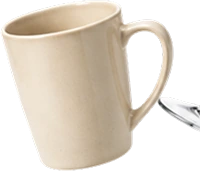
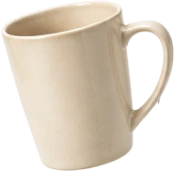
Corrige recortes, reubica etiquetas, agranda píldoras y suma hover a la escena flotante (#15)
* Reemplaza la foto de materiales por una escena flotante interactiva por capas

Extrae los 19 objetos de la composición de referencia en PNGs
individuales con fondo transparente y los anima de forma independiente
(traslación, rotación y escala sutiles, con duración y delay propios
por objeto). Las etiquetas VIDRIO, CERÁMICA, ALUMINIO, PLÁSTICO y
Y MÁS... son elementos HTML fijos (no flotan) con z-index intercalado
respecto a los objetos, de forma que los que representan su categoría
(taza de cerámica, botella de aluminio, vaso plástico) puedan taparlas
al flotar por encima. La escena escala de forma responsive vía
aspect-ratio y posiciones porcentuales, y respeta prefers-reduced-motion.

* Corrige posición de ALUMINIO y rediseña la escena para mobile a pantalla completa

- Actualiza las 5 palabras a las posiciones exactas del nuevo SVG de
  referencia, y ajusta qué objeto tapa a cada una para que ALUMINIO
  (que antes quedaba permanentemente oculta) sea visible la mayor
  parte del tiempo.
- En mobile (<=720px) la escena ahora ocupa el alto completo de la
  pantalla y los 19 objetos y las 5 palabras se redistribuyen en un
  layout vertical propio (vía variables CSS --xm/--ym/--wm con
  fallback a los valores de desktop), en vez de escalar la misma
  composición apaisada a un espacio angosto.

* Corrige recorte de la taza y la copa, y reubica ALUMINIO/PLÁSTICO en desktop

Reemplaza ceramic_mug_top.webp y wineglass_topright.webp por los
[…]

diff --git a/index.html b/index.html
@@ -281,11 +281,28 @@ section{ padding:96px 0; }
   0%,100%{ transform:translate(-50%,-50%) translate3d(0,0,0) rotate(var(--r0)) scale(1); }
   50%{ transform:translate(-50%,-50%) translate3d(var(--dx),var(--dy),0) rotate(var(--r1)) scale(var(--sc)); }
 }
+.float-obj:hover{
+  animation-name:floatObjHover;
+  animation-duration:0.5s;
+  animation-timing-function:ease-out;
+  animation-iteration-count:1;
+  animation-fill-mode:forwards;
+  z-index:99;
+  filter:drop-shadow(0 20px 26px rgba(15,27,69,0.24));
+  cursor:pointer;
+}
+@keyframes floatObjHover{
+  0%{ transform:translate(-50%,-50%) scale(1) rotate(0deg); }
+  30%{ transform:translate(-50%,-50%) scale(1.14) rotate(-5deg); }
+  55%{ transform:translate(-50%,-50%) scale(1.08) rotate(4deg); }
+  80%{ transform:translate(-50%,-50%) scale(1.1) rotate(-2deg); }
+  100%{ transform:translate(-50%,-50%) scale(1.08) rotate(0deg); }
+}
 .float-word{
   position:absolute;
   z-index:var(--z);
   display:inline-flex; align-items:center; justify-content:center;
-  padding:11px 26px;
+  padding:14px 32px;
   border-radius:999px;
   border:1.5px solid var(--blue);
   background:rgba(30,64,199,0.05);
@@ -294,7 +311,7 @@ section{ padding:96px 0; }
   color:var(--blue);
   font-family:var(--font);
   font-weight:700;
-  font-size:clamp(10px,1.35vw,13.5px);
+  font-size:clamp(12px,1.7vw,17px);
   text-transform:uppercase;
   letter-spacing:0.06em;
   white-space:nowrap;
@@ -304,7 +321,7 @@ section{ padding:96px 0; }
   .float-obj{ animation:none; }
 }
 @media (max-width:720px){
-  .float-word{ padding:8px 18px; font-size:10px; }
+  .float-word{ padding:11px 24px; font-size:12.5px; }
   .float-word--vidrio{ left:8% !important; top:2% !important; right:auto !important; bottom:auto !important; }
   .float-word--ceramica{ left:32% !important; top:26.5% !important; right:auto !important; bottom:auto !important; }
   .float-word--aluminio{ left:11% !important; top:37.5% !important; right:auto !important; bottom:auto !important; }
@@ -312,7 +329,7 @@ section{ padding:96px 0; }
   .float-word--ymas{ right:6% !important; bottom:1.5% !important; left:auto !important; top:auto !important; }
 }
 @media (max-width:400px){
-  .float-word{ padding:6px 14px; font-size:8.5px; }
+  .float-word{ padding:9px 20px; font-size:11px; }
 }
 
 .subhead{
@@ -681,8 +698,8 @@ footer .meta{ font-family:var(--font); font-size:12.5px; font-weight:500; color:
 
     <div class="float-scene">
       <div class="float-stage">
-      <img class="float-obj" src="assets/floating/ceramic_mug_top.webp" width="200" height="171" alt="Taza de cerámica" loading="lazy" style="--x:74.06%; --y:33.1%; --w:14.13%; --z:45; --dx:-7.2px; --dy:10.0px; --r0:-1.8deg; --r1:-5.16deg; --sc:1.042; --dur:6.93s; --delay:-2.93s; --xm:46%; --ym:30.06%; --wm:21.91%;">
-      <img class="float-obj" src="assets/floating/wineglass_topright.webp" width="175" height="314" alt="Copa de vino de vidrio" loading="lazy" style="--x:87.31%; --y:22.99%; --w:12.37%; --z:15; --dx:-7.7px; --dy:-12.0px; --r0:-2.37deg; --r1:-5.8deg; --sc:1.038; --dur:8.6s; --delay:-3.86s; --xm:52%; --ym:14.72%; --wm:19.17%;">
+      <img class="float-obj" src="assets/floating/ceramic_mug_top.webp" width="174" height="172" alt="Taza de cerámica" loading="lazy" style="--x:74.06%; --y:33.1%; --w:14.13%; --z:45; --dx:-7.2px; --dy:10.0px; --r0:-1.8deg; --r1:-5.16deg; --sc:1.042; --dur:6.93s; --delay:-2.93s; --xm:46%; --ym:30.06%; --wm:21.91%;">
+      <img class="float-obj" src="assets/floating/wineglass_topright.webp" width="219" height="315" alt="Copa de vino de vidrio" loading="lazy" style="--x:87.31%; --y:22.99%; --w:12.37%; --z:15; --dx:-7.7px; --dy:-12.0px; --r0:-2.37deg; --r1:-5.8deg; --sc:1.038; --dur:8.6s; --delay:-3.86s; --xm:52%; --ym:14.72%; --wm:19.17%;">
       <img class="float-obj" src="assets/floating/winebottle_center.webp" width="157" height="511" alt="Botella de vino de vidrio" loading="lazy" style="--x:50.57%; --y:39.35%; --w:11.1%; --z:30; --dx:13.5px; --dy:-14.1px; --r0:-1.7deg; --r1:0.98deg; --sc:1.024; --dur:11.29s; --delay:-3.8s; --xm:62%; --ym:35.17%; --wm:21.08%;">
       <img class="float-obj" src="assets/floating/demijohn.webp" width="183" height="305" alt="Damajuana de vidrio" loading="lazy" style="--x:10.99%; --y:60.33%; --w:12.93%; --z:25; --dx:-10.0px; --dy:14.8px; --r0:0.52deg; --r1:-2.94deg; --sc:1.033; --dur:11.37s; --delay:-4.3s; --xm:68%; --ym:60.72%; --wm:22.63%;">
       <img class="float-obj" src="assets/floating/travelmug_mint.webp" width="150" height="246" alt="Vaso térmico" loading="lazy" style="--x:37.31%; --y:77.75%; --w:10.6%; --z:26; --dx:13.6px; --dy:12.6px; --r0:1.02deg; --r1:-2.3deg; --sc:1.039; --dur:11.43s; --delay:-9.77s; --xm:46%; --ym:76.06%; --wm:16.43%;">
@@ -702,8 +719,8 @@ footer .meta{ font-family:var(--font); font-size:12.5px; font-weight:500; color:
       <img class="float-obj" src="assets/floating/pillbottle.webp" width="92" height="148" alt="Frasco de pastillas" loading="lazy" style="--x:48.2%; --y:79.03%; --w:6.5%; --z:22; --dx:8.9px; --dy:14.5px; --r0:-1.55deg; --r1:-4.87deg; --sc:1.029; --dur:8.56s; --delay:-7.39s; --xm:28%; --ym:81.17%; --wm:10.08%;">
       <span class="float-word float-word--vidrio" style="left:12.83%; top:14.25%; --z:70;">VIDRIO</span>
       <span class="float-word float-word--ceramica" style="left:74.88%; top:37.66%; --z:40;">CERÁMICA</span>
-      <span class="float-word float-word--aluminio" style="left:27.46%; top:56.41%; --z:40;">ALUMINIO</span>
-      <span class="float-word float-word--plastico" style="left:49.30%; top:83.32%; --z:40;">PLÁSTICO</span>
+      <span class="float-word float-word--aluminio" style="left:30%; top:25%; --z:40;">ALUMINIO</span>
+      <span class="float-word float-word--plastico" style="left:49.30%; top:69%; --z:40;">PLÁSTICO</span>
       <span class="float-word float-word--ymas" style="right:3.85%; bottom:8.10%; --z:70;">Y MÁS...</span>
       </div>
     </div>
